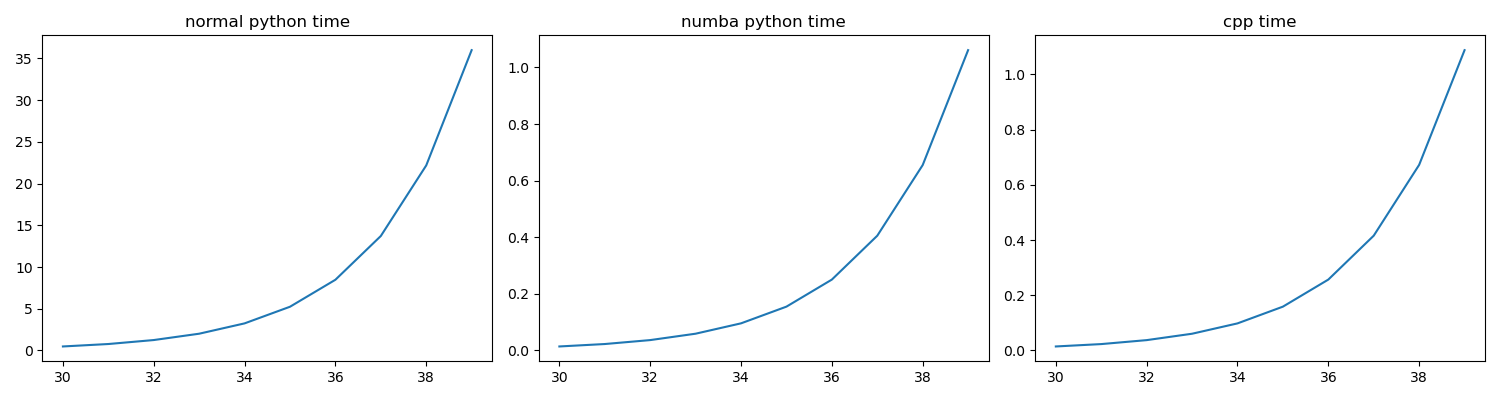
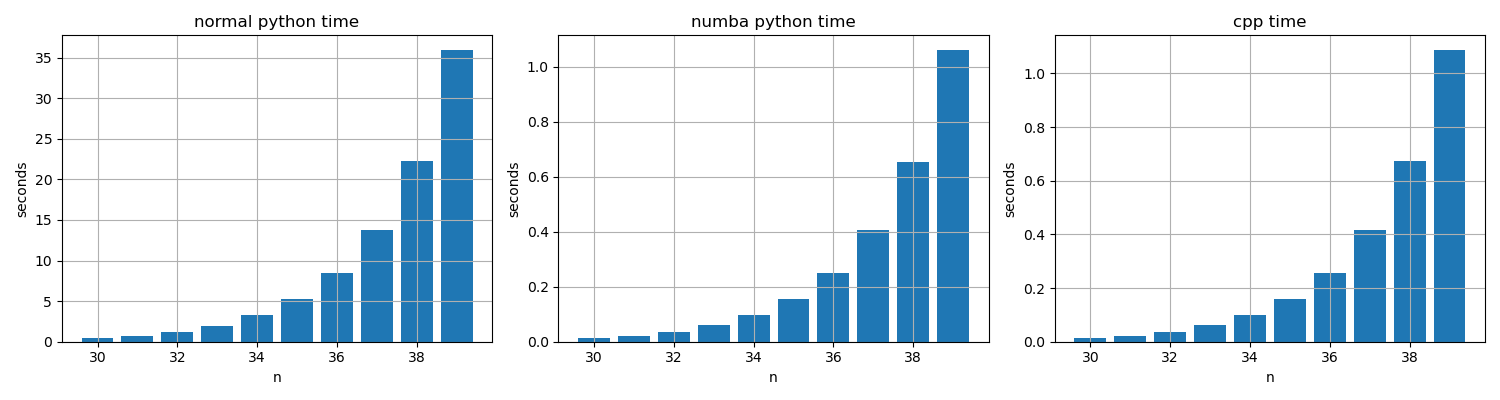
updated image

diff --git a/MA4/MA4_Files/MA4_2.py b/MA4/MA4_Files/MA4_2.py
@@ -66,13 +66,16 @@ def main():
 	fig, axes = pp.subplots(1, 3, figsize=(15, 4))
 	for i, y in enumerate([py_time, py_numba_time, cpp_time]):
 		ax = axes[i]
+		ax.set_xlabel("n")
+		ax.set_ylabel("seconds")
+		ax.grid(True)
 		if i == 0:
 			ax.set_title("normal python time")
 		if i == 1:
 			ax.set_title("numba python time")
 		if i == 2:
 			ax.set_title("cpp time")
-		ax.plot(n_list, y)
+		ax.bar(n_list, y)
 	pp.tight_layout()
 	pp.savefig(fname="timing30to40")
 
